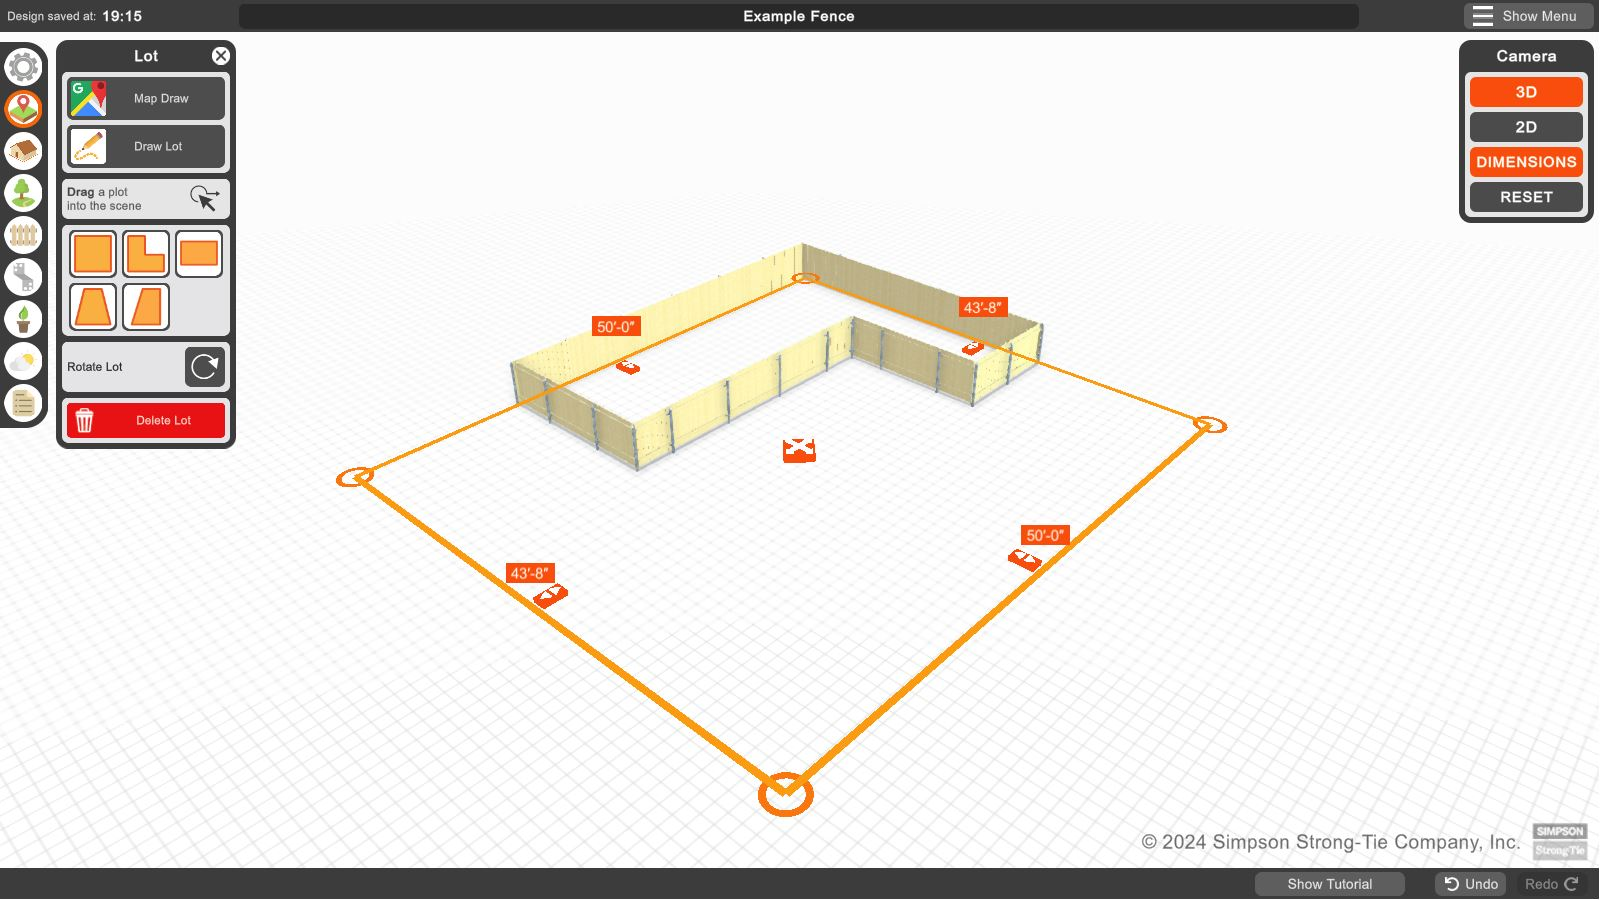
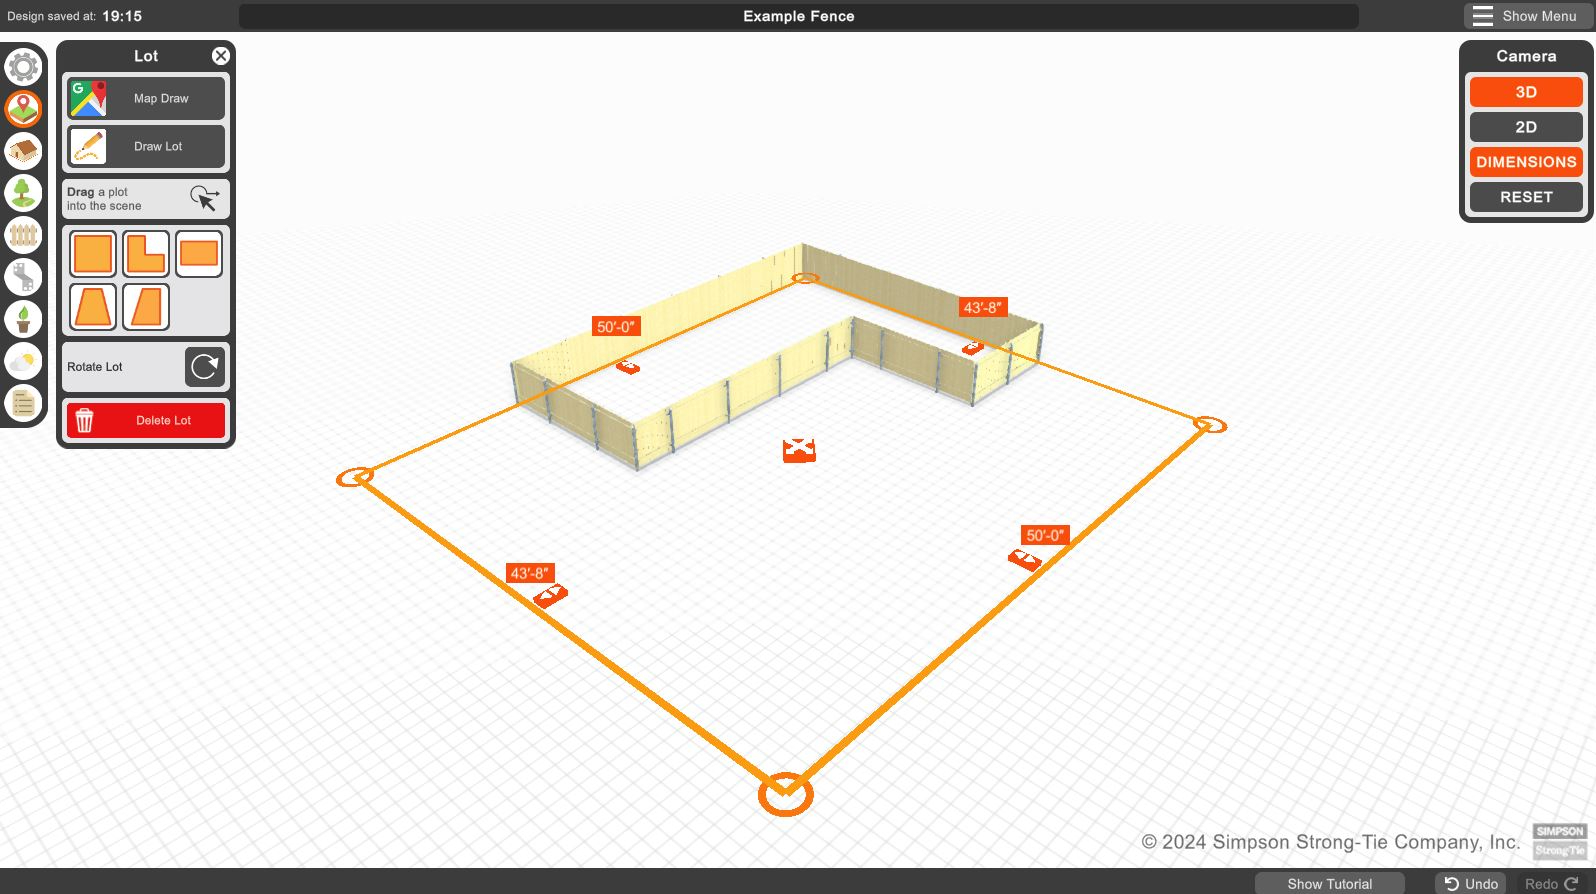
Updated Work Images
- Updated work images, a few had white lines visible

diff --git a/src/workData.js b/src/workData.js
@@ -55,7 +55,7 @@ export const workData = [
                 { type: 'image', url: '/Images/Work/f1-Promo-4.jpg' },
                 { type: 'image', url: '/Images/Work/f1-Promo-8.jpg' }, 
                 { type: 'image', url: '/Images/Work/f1-Promo-2.jpg' },
-                { type: 'image', url: '/Images/Work/f1-Promo-7.png' }, 
+                { type: 'image', url: '/Images/Work/f1-Promo-7.jpg' }, 
                 { type: 'image', url: '/Images/Work/f1-Promo-6.jpg' },
                 { type: 'image', url: '/Images/Work/f1-Promo-5.jpg' },
             ],
